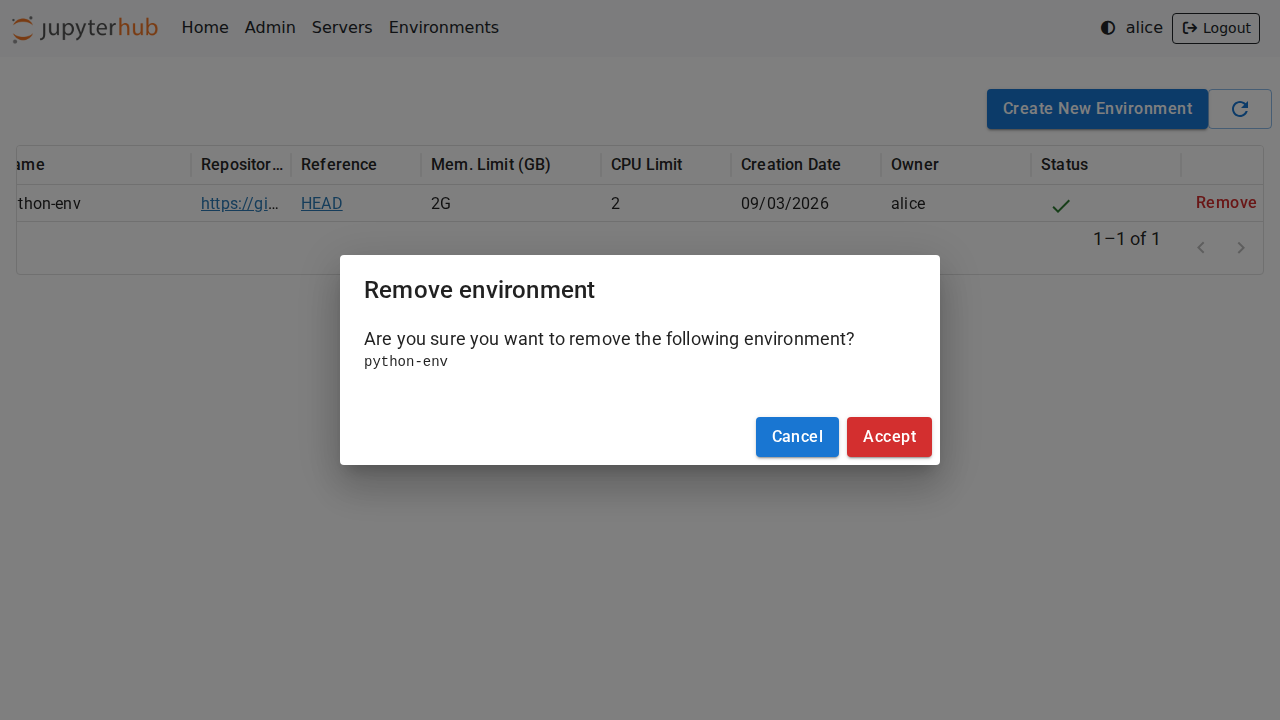
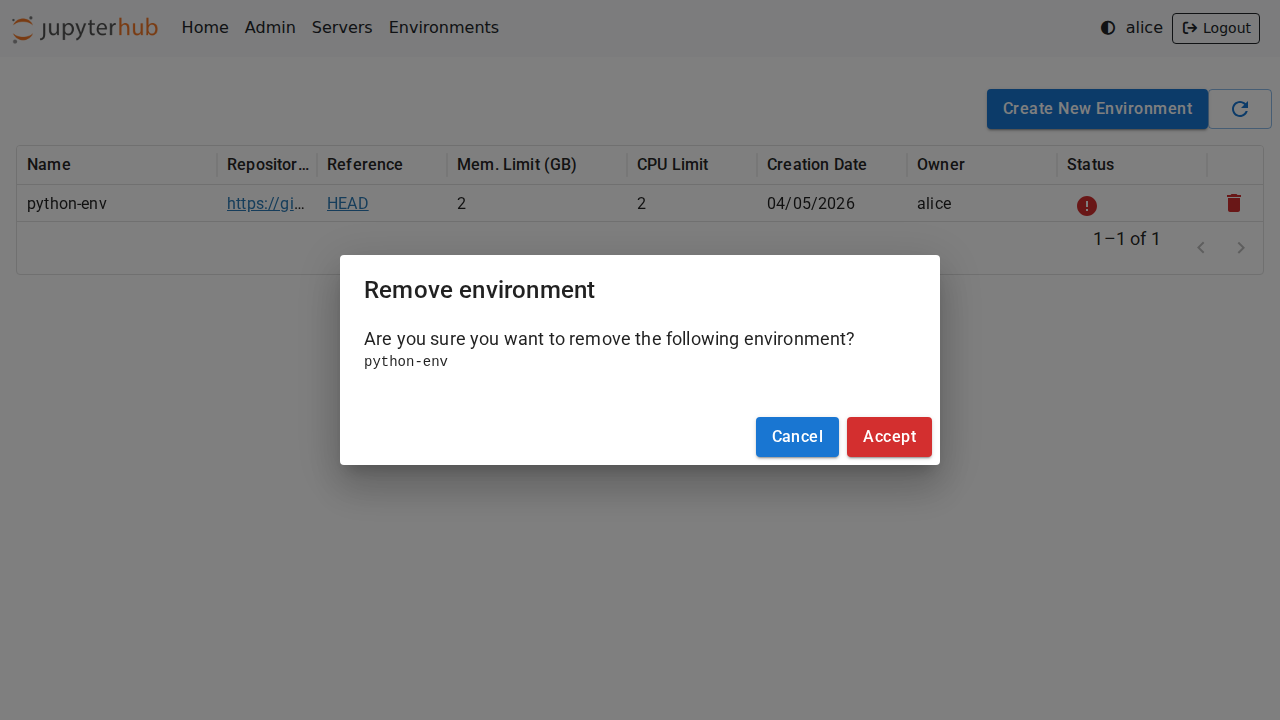
upgrade k8s-hub image (#188)
* upgrade k8s-hub image

* feat(ui): replace remove button with trash icon in environment list

* update snapshots and increase tests timeout

Pull request: upgrade k8s-hub image

diff --git a/src/common/ButtonWithConfirm.tsx b/src/common/ButtonWithConfirm.tsx
@@ -1,9 +1,9 @@
-import { Button } from '@mui/material';
+import { Button, IconButton, Tooltip } from '@mui/material';
 import Dialog from '@mui/material/Dialog';
 import DialogActions from '@mui/material/DialogActions';
 import DialogContent from '@mui/material/DialogContent';
 import DialogTitle from '@mui/material/DialogTitle';
-import { Fragment, memo, useCallback, useState } from 'react';
+import { Fragment, JSX, memo, useCallback, useState } from 'react';
 import { Loading } from './LoadingAnimation';
 
 interface IButtonWithConfirm {
@@ -13,6 +13,7 @@ interface IButtonWithConfirm {
   action: (() => void) | (() => Promise<void>);
   okLabel?: string;
   cancelLabel?: string;
+  icon?: JSX.Element;
 }
 
 function _ButtonWithConfirm(props: IButtonWithConfirm) {
@@ -39,9 +40,17 @@ function _ButtonWithConfirm(props: IButtonWithConfirm) {
 
   return (
     <Fragment>
-      <Button onClick={handleOpen} color="error" size="small">
-        {props.buttonLabel}
-      </Button>
+      {props.icon ? (
+        <Tooltip title={props.buttonLabel}>
+          <IconButton onClick={handleOpen} color="error" size="small">
+            {props.icon}
+          </IconButton>
+        </Tooltip>
+      ) : (
+        <Button onClick={handleOpen} color="error" size="small">
+          {props.buttonLabel}
+        </Button>
+      )}
 
       <Dialog
         className="tljh-form-dialog"

diff --git a/src/environments/RemoveEnvironmentButton.tsx b/src/environments/RemoveEnvironmentButton.tsx
@@ -1,3 +1,4 @@
+import DeleteIcon from '@mui/icons-material/Delete';
 import { Typography } from '@mui/material';
 import Box from '@mui/material/Box';
 import { memo, useCallback } from 'react';
@@ -31,7 +32,8 @@ function _RemoveEnvironmentButton(props: IRemoveEnvironmentButton) {
 
   return (
     <ButtonWithConfirm
-      buttonLabel="Remove"
+      buttonLabel="Remove environment"
+      icon={<DeleteIcon />}
       dialogTitle="Remove environment"
       dialogBody={
         <Box>

diff --git a/ui-tests/tests/ui.test.ts b/ui-tests/tests/ui.test.ts
@@ -104,11 +104,11 @@ test.describe('tljh_repo2docker UI Tests', () => {
       .click();
     if (process.env.CONFIG_FILE === 'binderhub') {
       await page.waitForSelector('span:has-text("Successfully tagged")', {
-        timeout: 600000
+        timeout: 1600000
       });
     } else {
       await page.waitForSelector('span:has-text("naming to docker")', {
-        timeout: 600000
+        timeout: 1600000
       });
     }
 

diff --git a/tljh_repo2docker/tests/utils.py b/tljh_repo2docker/tests/utils.py
@@ -82,7 +82,7 @@ async def add_environment(
 
 async def wait_for_image(*, image_name):
     """wait until an image is built"""
-    count, retries = 0, 60 * 10
+    count, retries = 0, 60 * 20
     async with Docker() as docker:
         while count < retries:
             await asyncio.sleep(1)